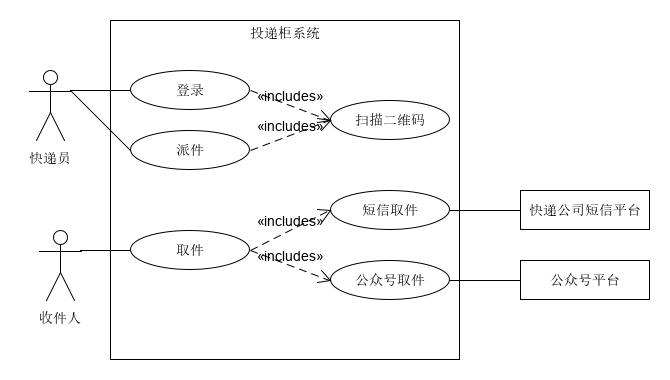
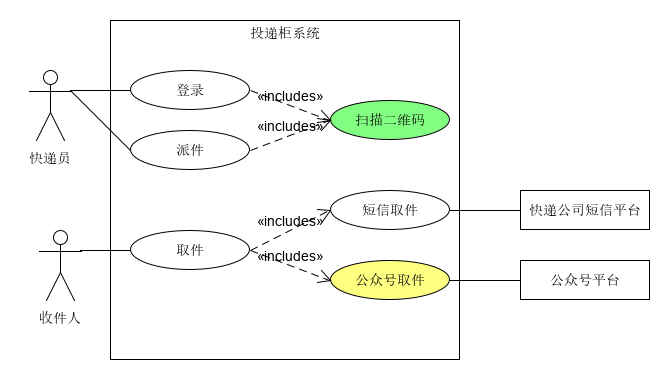
upload hw5

Changed region(s): [[0.4776, 0.2605, 0.6866, 0.3763], [0.4776, 0.6658, 0.6866, 0.8105]]

diff --git a/source/_posts/SWAD-Homework5.md b/source/_posts/SWAD-Homework5.md
@@ -1,0 +1,30 @@
+---
+title: SWAD | Homework5
+date: 2019-05-25 14:36:13
+categories:
+  - SWAD
+tags:
+  - SWAD
+---
+
+## 使用 UMLet 建模
+1. 根据订旅馆建模文档，Asg-RH.pdf：
+   * 绘制用例图模型（到子用例）
+   ![](https://github.com/7cthunder/Blog/raw/master/source/assets/use_case.png)
+   * 给出 make reservation 用例的活动图
+   ![](https://github.com/7cthunder/Blog/raw/master/source/assets/activity.png)
+
+2. 根据课程练习“投递员使用投递箱给收件人快递包裹”的业务场景
+   * 分别用多泳道图建模三个场景的业务过程
+     * 业务一
+     ![](https://github.com/7cthunder/Blog/raw/master/source/assets/1.png)
+     * 业务二
+     ![](https://github.com/7cthunder/Blog/raw/master/source/assets/2.png)
+     * 业务三
+     ![](https://github.com/7cthunder/Blog/raw/master/source/assets/3.png)
+   * 根据上述流程，给出快递柜系统最终的用例图模型
+     * 用正常色彩表示第一个业务流程反映的用例
+     * 用绿色背景表述第二个业务场景添加或修改的用例，以及支持 Actor
+     * 用黄色背景表述第三个业务场景添加或修改的用例，以及支持 Actor
+     ![](https://github.com/7cthunder/Blog/raw/master/source/assets/use_case_2.png)
+     
